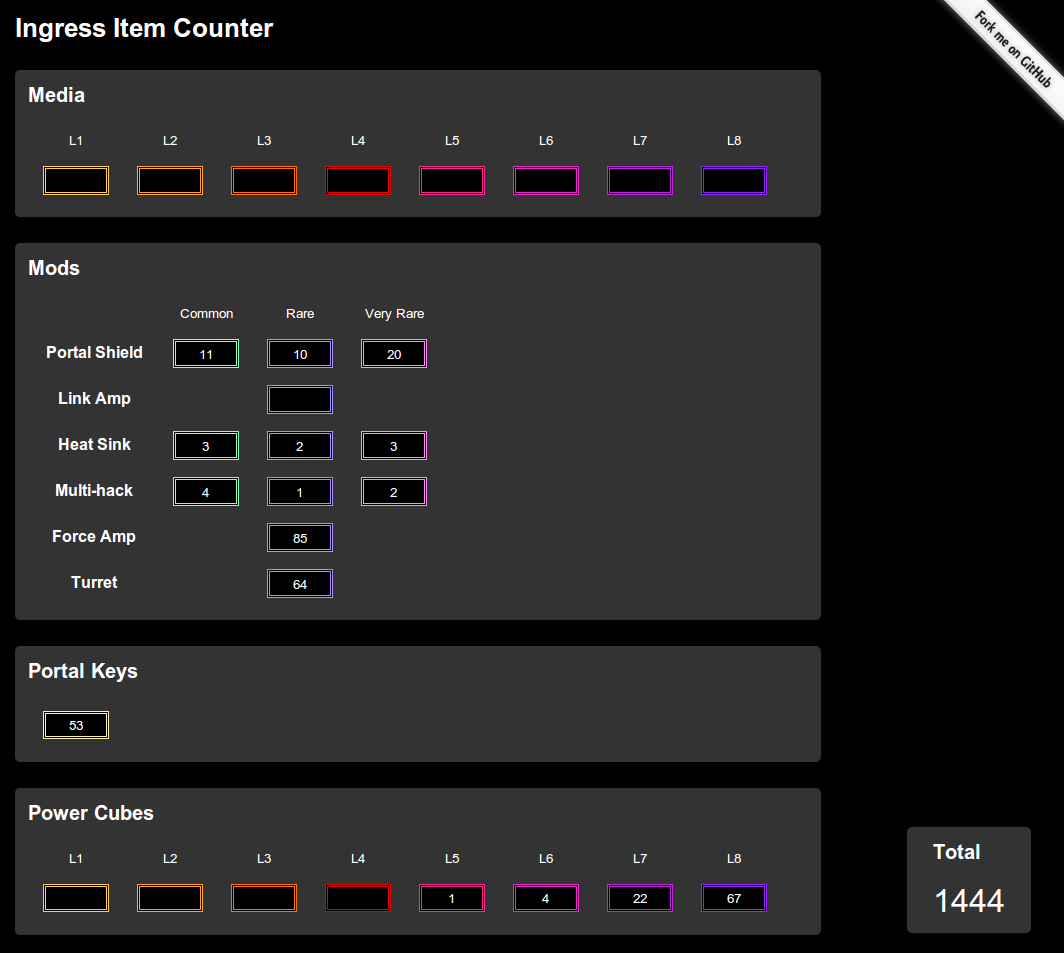
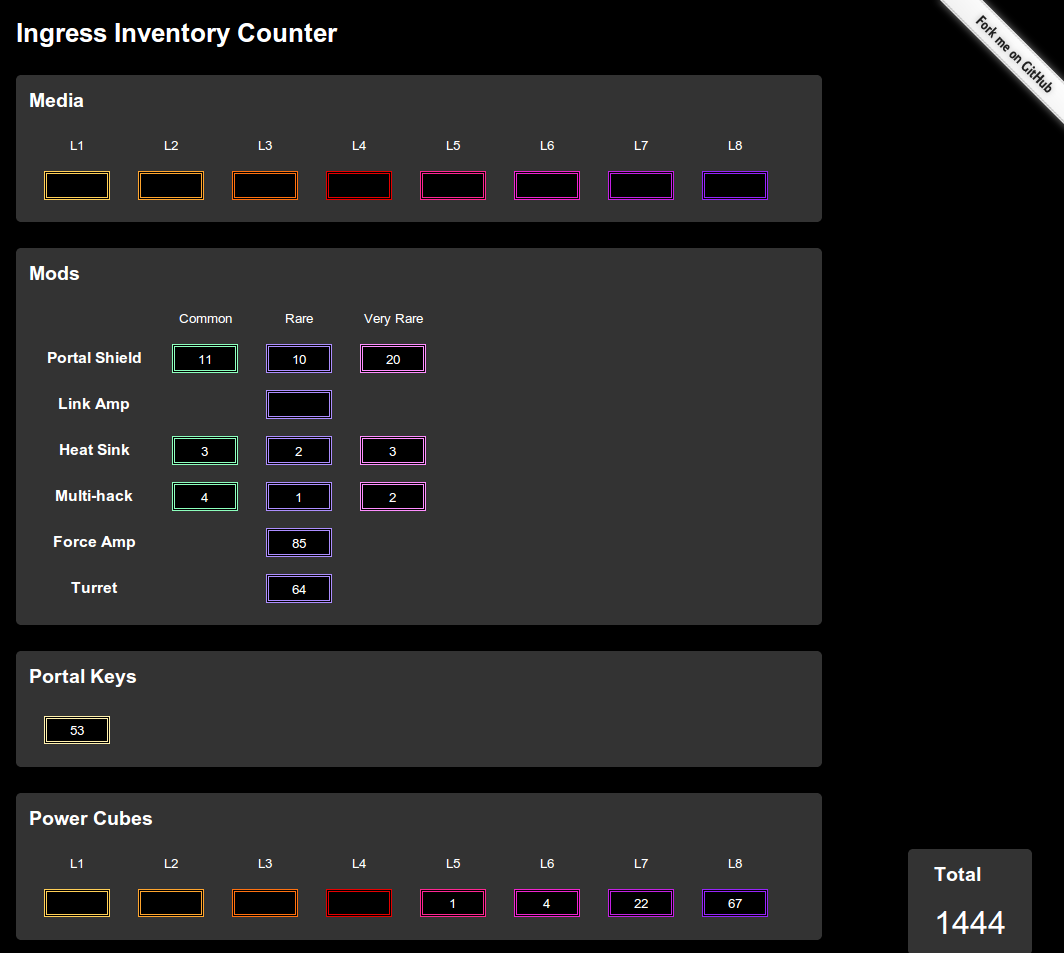
Rename site to Ingress Inventory Counter

diff --git a/index.html b/index.html
@@ -2,13 +2,14 @@
 <html lang="en">
 <head>
   <meta charset="UTF-8">
-  <title></title>
+  <title>Ingress Inventory Counter</title>
+  <meta name="description" content="Calculator for your Ingress inventory items">
   <link rel="stylesheet" href="style.css">
 </head>
 <body>
 
   <header>
-    <h1>Ingress Item Counter</h1>
+    <h1>Ingress Inventory Counter</h1>
   </header>
 
   <section>

diff --git a/readme.md b/readme.md
@@ -1,5 +1,5 @@
-Ingress Item Counter
-====================
+Ingress Inventory Counter
+=========================
 
 Static website that helps you keep track of your Ingress inventory (uses local storage for caching).
 
